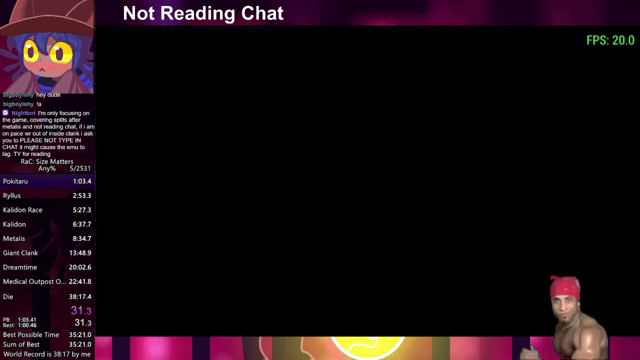
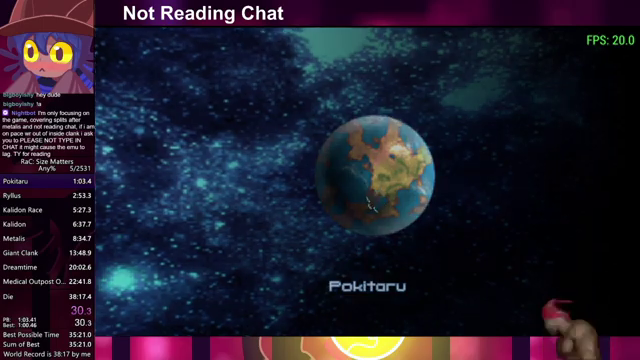
Made the debugging with saving the frames a lot better by saving every 50th frame, so that the frames saved aren't black on the screen fade out.

diff --git a/sm-load-normalizer-by-image/image_scanning/image_scanner.py b/sm-load-normalizer-by-image/image_scanning/image_scanner.py
@@ -204,6 +204,7 @@ class ImageScanner:
         is_prev_frame_black = False
         # DEBUGGING
         debug_prev_frame = frame
+        assign_debug_frame = 0
         while success:
             if self.is_finished:
                 break
@@ -214,7 +215,8 @@ class ImageScanner:
             elif is_prev_frame_black and (not is_curr_frame_black):
                 self.exit_black_frame()
             # DEBUGGING
-            debug_prev_frame = frame
+            if assign_debug_frame % 50 == 0:
+                debug_prev_frame = frame
             # Read the next frame.
             success, frame = self.get_next_frame()
             frame_cropped = self.crop_frame(frame)
@@ -225,7 +227,7 @@ class ImageScanner:
 
             # DEBUGGING
             # break
-
+            assign_debug_frame += 1
         self.print_finished_stats()
 
     # Prints stats about the program once it's finished.

diff --git a/TODO.md b/TODO.md
@@ -1,5 +1,5 @@
 # Current LLR stuff
-- Have the program save the image at the start and end of the measured load, so that you can quickly check if something is wrong.
+- Solve the issue with Ryllus gameplay being falsely detected as a load.
 - Measure poki load times.
 - Check many different runs work with the load bounds for the first 3 loads.
 - Continue measuring load times (only 10 samples per load at first) and check that different runs work.
